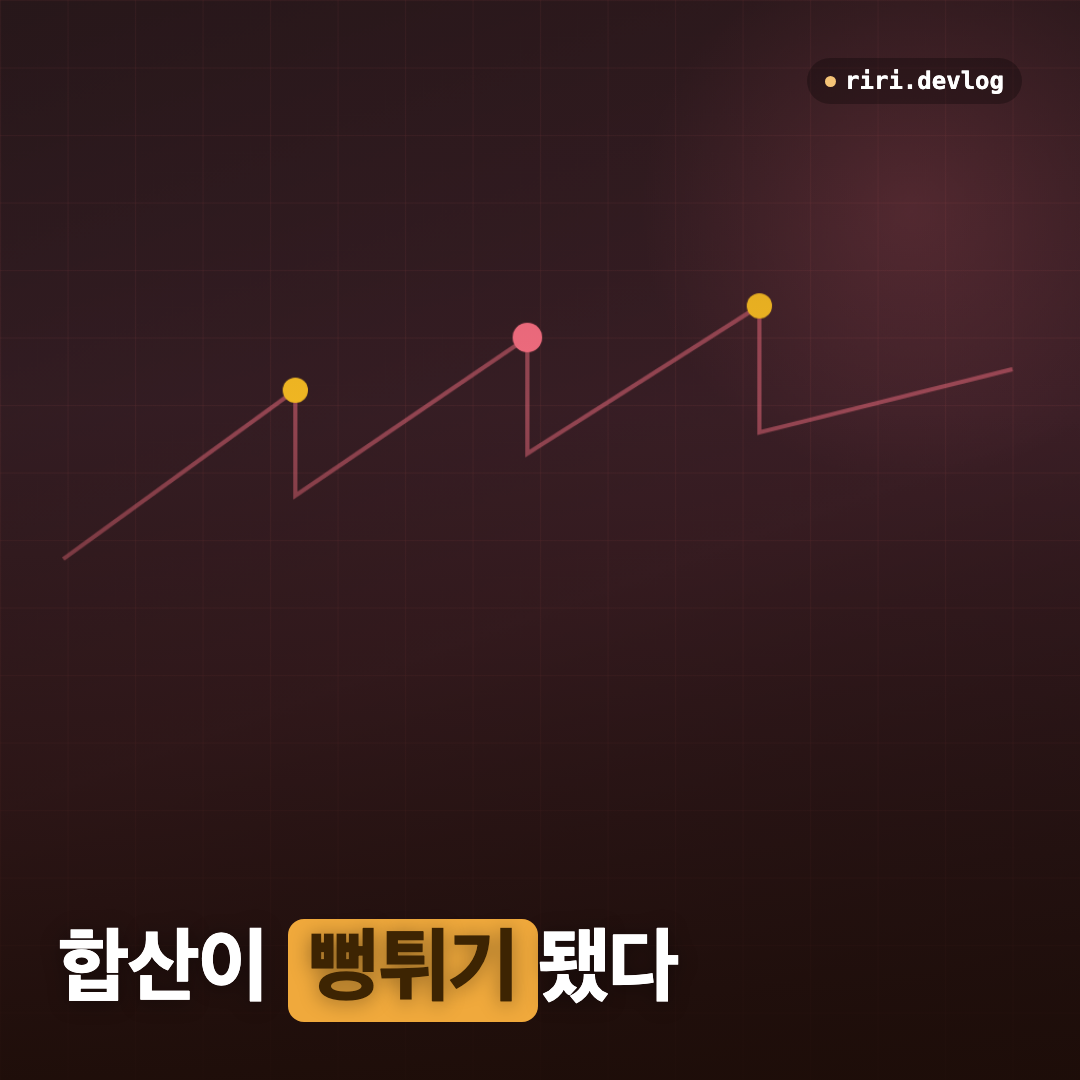
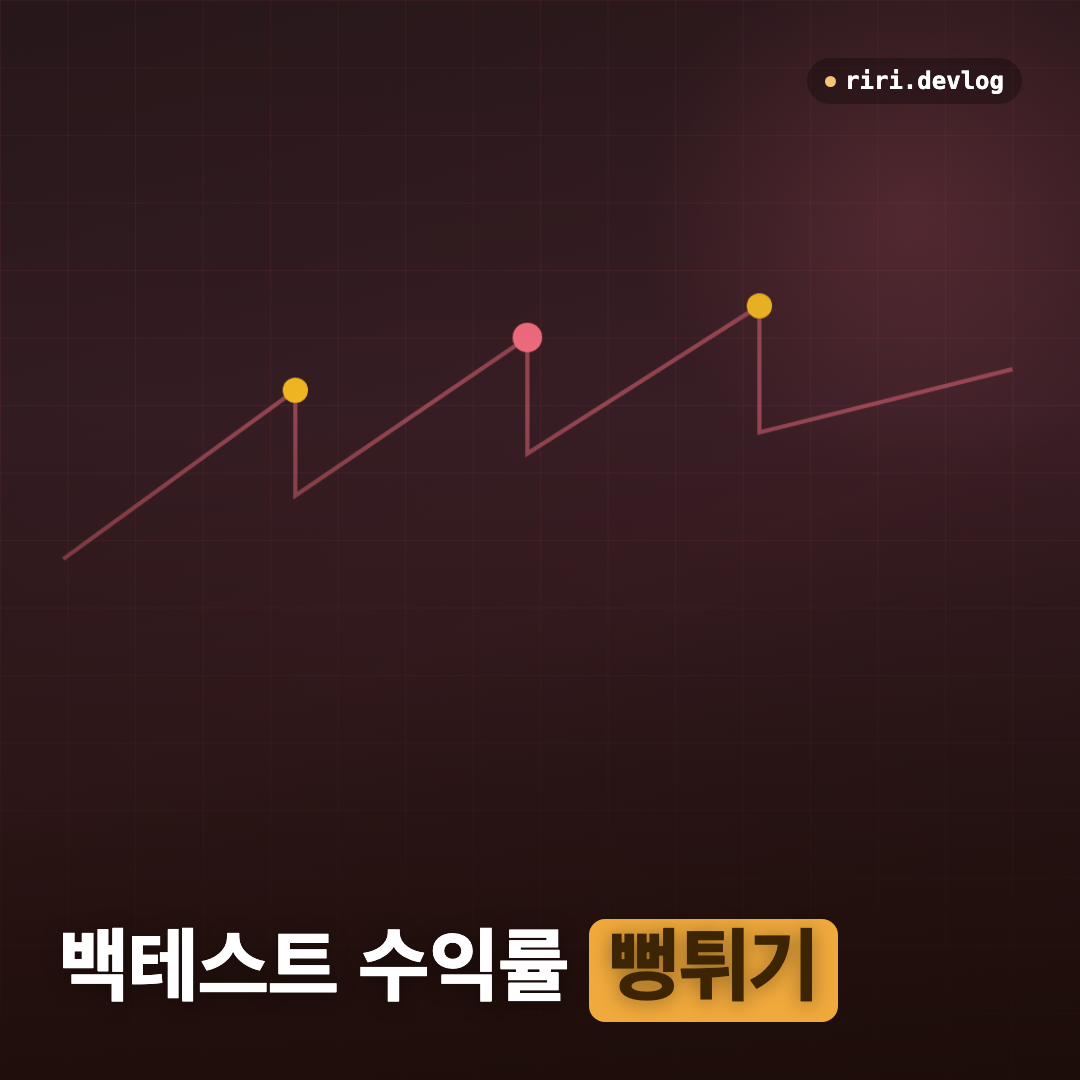
fix: 전체 커버 헤드라인을 주제 식별형으로 통일(15건 재생성, MAP 동기화)

Changed region(s): [[0.0611, 0.825, 0.7944, 0.9472]]

diff --git a/tools/gen_cover.py b/tools/gen_cover.py
@@ -73,18 +73,18 @@ def render(bg, slug, category, headline, highlight):
 
 
 MAP = [
-    ("claude-code-blog-automation-github-pages",            "자동화",    "블로그 자동 발행",   "자동 발행"),
-    ("website-analytics-goatcounter-ga4-search-console",    "운영",      "방문 통계 3종",     "3종"),
-    ("claude-code-skills-cross-machine-sync",               "자동화",    "스킬 PC 동기화",    "동기화"),
-    ("blog-to-instagram-automation-1-design",               "자동화",    "전체 설계",        "설계"),
-    ("blog-to-instagram-automation-2-card-generation",      "자동화",    "카드 자동 생성",    "자동"),
-    ("blog-to-instagram-automation-3-design",               "자동화",    "벤치마킹 ≠ 카피",   "≠ 카피"),
-    ("blog-to-instagram-automation-4-publish",              "자동화",    "심사 없이 자동 발행", "심사 없이"),
+    ("claude-code-blog-automation-github-pages", "자동화", "클로드코드로 블로그 자동화", "자동화"),
+    ("website-analytics-goatcounter-ga4-search-console", "운영", "블로그 통계 3종 셋업", "3종"),
+    ("claude-code-skills-cross-machine-sync", "자동화", "클로드 스킬 PC 동기화", "동기화"),
+    ("blog-to-instagram-automation-1-design", "자동화", "인스타 자동화 설계도", "설계도"),
+    ("blog-to-instagram-automation-2-card-generation", "자동화", "카드뉴스 자동 생성", "자동 생성"),
+    ("blog-to-instagram-automation-3-design", "자동화", "카드 벤치마킹 ≠ 카피", "≠ 카피"),
+    ("blog-to-instagram-automation-4-publish", "자동화", "인스타 심사 없이 발행", "심사 없이"),
     ("blog-to-instagram-automation-5-dm-wall",              "자동화",    "DM 자동화의 벽",    "벽"),
     ("ig-cloudflare-wrangler-login-failed",                 "트러블슈팅", "wrangler login 실패", "실패"),
     ("instagram-api-oauthexception-190-session-invalidated", "트러블슈팅", "OAuth 190 해결",   "해결"),
-    ("instagram-comment-webhook-not-working-dev-mode",      "트러블슈팅", "webhook이 안 올 때", "안 올 때"),
-    ("instagram-tester-invite-accept-error",                "트러블슈팅", "테스터 초대 실패",   "실패"),
+    ("instagram-comment-webhook-not-working-dev-mode", "트러블슈팅", "인스타 webhook 불통", "불통"),
+    ("instagram-tester-invite-accept-error", "트러블슈팅", "인스타 테스터 초대 실패", "실패"),
 ]
 
 

diff --git a/_posts/2026-06-11-claude-code-blog-automation-github-pages.md b/_posts/2026-06-11-claude-code-blog-automation-github-pages.md
@@ -1,6 +1,6 @@
 ---
 title: "클로드 코드 작업을 블로그로 자동 발행하기 — 조사부터 구축, 운영까지 한 세션의 기록"
-headline: "블로그 자동 발행"
+headline: "클로드코드로 블로그 자동화"
 date: 2026-06-11 13:10:00 +0900
 categories: [개발, 자동화]
 tags: [claude-code, github-pages, jekyll, chirpy, adsense, blog-automation, flux]

diff --git a/_posts/2026-06-19-blog-to-instagram-automation-3-design.md b/_posts/2026-06-19-blog-to-instagram-automation-3-design.md
@@ -1,6 +1,6 @@
 ---
 title: "블로그 글을 인스타그램에 자동 발행하기 (3) — 잘되는 카드 벤치마킹 vs 카피, 나만의 디자인"
-headline: "벤치마킹 ≠ 카피"
+headline: "카드 벤치마킹 ≠ 카피"
 date: 2026-06-19 10:10:00 +0900
 categories: [개발, 자동화]
 tags: [instagram, automation, design, ux-writing, blog-to-insta]

diff --git a/_posts/2026-06-19-blog-to-instagram-automation-2-card-generation.md b/_posts/2026-06-19-blog-to-instagram-automation-2-card-generation.md
@@ -1,6 +1,6 @@
 ---
 title: "블로그 글을 인스타그램에 자동 발행하기 (2) — 카드뉴스 자동 생성 (AI로 글자 넣으면 깨진다)"
-headline: "카드 자동 생성"
+headline: "카드뉴스 자동 생성"
 date: 2026-06-19 10:08:00 +0900
 categories: [개발, 자동화]
 tags: [instagram, automation, html, chrome-headless, blog-to-insta]

diff --git a/_posts/2026-06-19-blog-to-instagram-automation-4-publish.md b/_posts/2026-06-19-blog-to-instagram-automation-4-publish.md
@@ -1,6 +1,6 @@
 ---
 title: "블로그 글을 인스타그램에 자동 발행하기 (4) — Instagram API 심사 없이 자동 발행 (Composio)"
-headline: "심사 없이 자동 발행"
+headline: "인스타 심사 없이 발행"
 date: 2026-06-19 10:12:00 +0900
 categories: [개발, 자동화]
 tags: [instagram, automation, composio, api, blog-to-insta]

diff --git a/_posts/2026-06-19-instagram-tester-invite-accept-error.md b/_posts/2026-06-19-instagram-tester-invite-accept-error.md
@@ -1,6 +1,6 @@
 ---
 title: "Instagram 테스터 초대 수락 안 될 때 (manage_access '문제가 발생했습니다')"
-headline: "테스터 초대 실패"
+headline: "인스타 테스터 초대 실패"
 date: 2026-06-19 09:45:00 +0900
 categories: [개발, 트러블슈팅]
 tags: [instagram, meta-developers, troubleshooting, blog-to-insta]

diff --git a/_posts/2026-07-06-wso2-devportal-api-no-login.md b/_posts/2026-07-06-wso2-devportal-api-no-login.md
@@ -1,6 +1,6 @@
 ---
 title: "Kuehne+Nagel API 포털, 회원가입 없이 스펙 전부 받아내기 (WSO2 Devportal)"
-headline: "가입 없이 스펙 확보"
+headline: "가입 없이 API 스펙 확보"
 date: 2026-07-06 15:00:00 +0900
 categories: [개발, 트러블슈팅]
 tags: [kuehne-nagel, wso2, api-manager, devportal, openapi, swagger]

diff --git a/_posts/2026-07-10-multiasset-backtest-index-alignment-bug.md b/_posts/2026-07-10-multiasset-backtest-index-alignment-bug.md
@@ -1,6 +1,6 @@
 ---
 title: "멀티에셋 백테스트가 수익률을 뻥튀기하는 이유 — 바 인덱스 정렬 함정"
-headline: "합산이 뻥튀기됐다"
+headline: "백테스트 수익률 뻥튀기"
 date: 2026-07-10 15:10:00 +0900
 categories: [개발, 트러블슈팅]
 tags: [백테스트, 퀀트, 멀티에셋, 시계열, 버그]

diff --git a/_posts/2026-07-10-financial-filter-bank-debt-ratio-false-positive.md b/_posts/2026-07-10-financial-filter-bank-debt-ratio-false-positive.md
@@ -1,6 +1,6 @@
 ---
 title: "재무 필터가 우량 은행을 걸러낼 때 — 부채비율 대신 계정 구조로 판별"
-headline: "우량 은행이 걸렸다"
+headline: "재무 필터가 은행 오탐"
 date: 2026-07-10 15:40:00 +0900
 categories: [개발, 트러블슈팅]
 tags: [재무분석, 부채비율, 금융업, 필터, dart]

diff --git a/_posts/2026-07-23-live-pipeline-git-discipline.md b/_posts/2026-07-23-live-pipeline-git-discipline.md
@@ -1,6 +1,6 @@
 ---
 title: "매일 자동 실행되는 저장소에 코드 고쳐 넣기 — 봇이 커밋하는 파이프라인의 git 규율"
-headline: "봇이 쏘는 저장소"
+headline: "봇 커밋 저장소 git 규율"
 date: 2026-07-23 18:40:00 +0900
 categories: [개발, 자동화]
 tags: [git, automation, launchd, ci, rebase]

diff --git a/_posts/2026-06-16-claude-code-skills-cross-machine-sync.md b/_posts/2026-06-16-claude-code-skills-cross-machine-sync.md
@@ -1,6 +1,6 @@
 ---
 title: "Claude Code 스킬을 여러 PC에서 공유하기 — Mac·Windows 자동 동기화 파이프라인"
-headline: "스킬 PC 동기화"
+headline: "클로드 스킬 PC 동기화"
 date: 2026-06-16 09:40:00 +0900
 categories: [개발, 자동화]
 tags: [claude-code, skills, git, github, launchd, automation]

diff --git a/_posts/2026-06-15-website-analytics-goatcounter-ga4-search-console.md b/_posts/2026-06-15-website-analytics-goatcounter-ga4-search-console.md
@@ -1,6 +1,6 @@
 ---
 title: "블로그 방문 통계 보는 법 — GoatCounter·GA4·Search Console 3종 셋업 가이드"
-headline: "방문 통계 3종"
+headline: "블로그 통계 3종 셋업"
 date: 2026-06-15 08:45:00 +0900
 categories: [개발, 운영]
 tags: [analytics, goatcounter, ga4, search-console, seo, jekyll, chirpy]
